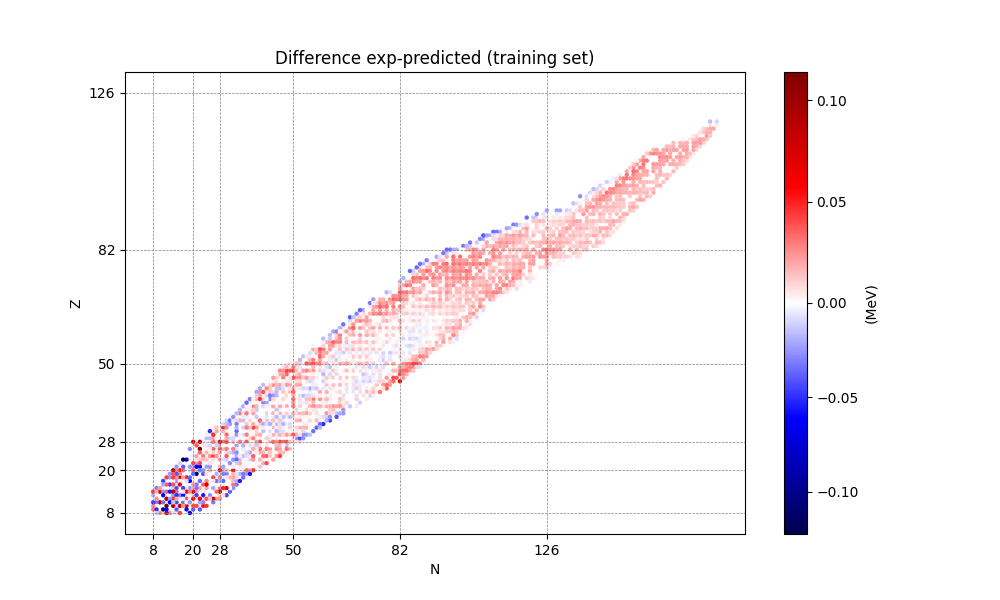
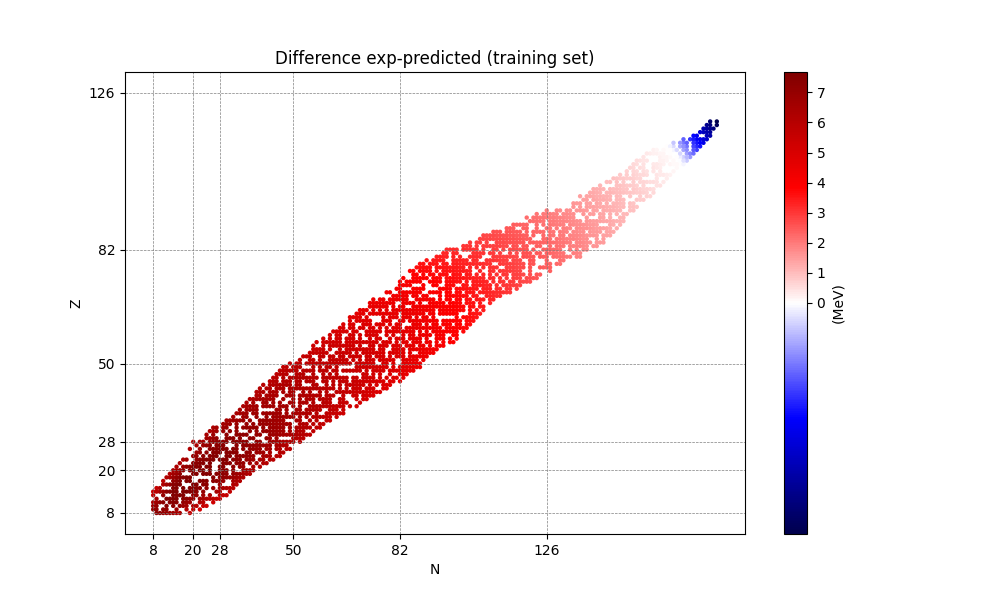
k-fold cross-validation

diff --git a/CNN-I3.py b/CNN-I3.py
@@ -6,6 +6,7 @@ import numpy as np
 import matplotlib.pyplot as plt
 from matplotlib.colors import TwoSlopeNorm
 from sklearn.model_selection import train_test_split
+from sklearn.model_selection import KFold
 
 device = torch.device('cuda' if torch.cuda.is_available() else 'cpu')
 print('Training on:', device)
@@ -97,7 +98,7 @@ best_test_rmse = float('inf')
 best_model_state = None
 best_epoch = 0
 
-num_epochs = 1000
+num_epochs = 10
 for epoch in range(num_epochs):
     model.train()
     optimizer.zero_grad() #Reset of gradients to zero to avoid accumulation from previous runs
@@ -193,3 +194,60 @@ calculate_and_plot_differences(data, train_inputs, train_targets, train_indices,
 calculate_and_plot_differences(data, test_inputs, test_targets, test_indices, model, device,
                                'Difference exp-predicted (test set)', 'CNN plots/CNN-I3_diff_scatter_test.png')
 
+
+n_splits = 5  
+kf = KFold(n_splits=n_splits, shuffle=True, random_state=42)
+
+rmse_train_list = []
+rmse_test_list = []
+
+for fold, (train_idx, test_idx) in enumerate(kf.split(inputs_tensor)):
+    print(f"Fold {fold + 1}/{n_splits}")
+
+    train_inputs, test_inputs = inputs_tensor[train_idx], inputs_tensor[test_idx]
+    train_targets, test_targets = targets_tensor[train_idx], targets_tensor[test_idx]
+    model = CNN_I3().to(device)
+    optimizer = optim.Adamax(model.parameters(), lr=0.002)
+    best_test_rmse = float('inf')
+    best_model_state = None
+    best_epoch = 0
+    train_loss_rmse_values = []
+    test_loss_rmse_values = []
+
+    num_epochs = 100
+    for epoch in range(num_epochs):
+        model.train()
+        optimizer.zero_grad() 
+        train_outputs = model(train_inputs.to(device))
+        train_loss = criterion(train_outputs, train_targets)
+        train_loss.backward() 
+        optimizer.step() 
+        train_loss_rmse = torch.sqrt(train_loss)
+        train_loss_rmse_values.append(train_loss_rmse.item())
+        print(f'Epoch [{epoch+1}/{num_epochs}], Training Loss: {train_loss_rmse.item()}')
+
+        model.eval()
+        with torch.no_grad(): 
+            test_outputs = model(test_inputs.to(device))
+            test_loss_mse = criterion(test_outputs, test_targets)
+            test_loss_rmse = torch.sqrt(test_loss_mse)
+            test_loss_rmse_values.append(test_loss_rmse.item())
+        print(f'Epoch [{epoch+1}/{num_epochs}], Test Loss (RMSE): {test_loss_rmse.item()}')
+
+        if test_loss_rmse.item() < best_test_rmse:
+            best_test_rmse = test_loss_rmse.item()
+            best_model_state = model.state_dict()
+            best_epoch = epoch + 1
+
+    rmse_train_list.append(train_loss_rmse_values[-1])  
+    rmse_test_list.append(test_loss_rmse_values[-1])  
+
+    print(f"Fold {fold + 1}: Best RMSE (Test): {best_test_rmse:.4f}MeV in epoch {best_epoch}")
+
+mean_rmse_train = np.mean(rmse_train_list)
+std_rmse_train = np.std(rmse_train_list)
+mean_rmse_test = np.mean(rmse_test_list)
+std_rmse_test = np.std(rmse_test_list)
+
+print(f"Final Average Train RMSE: {mean_rmse_train:.4f} ± {std_rmse_train:.4f} MeV")
+print(f"Final Average Test RMSE: {mean_rmse_test:.4f} ± {std_rmse_test:.4f} MeV")
